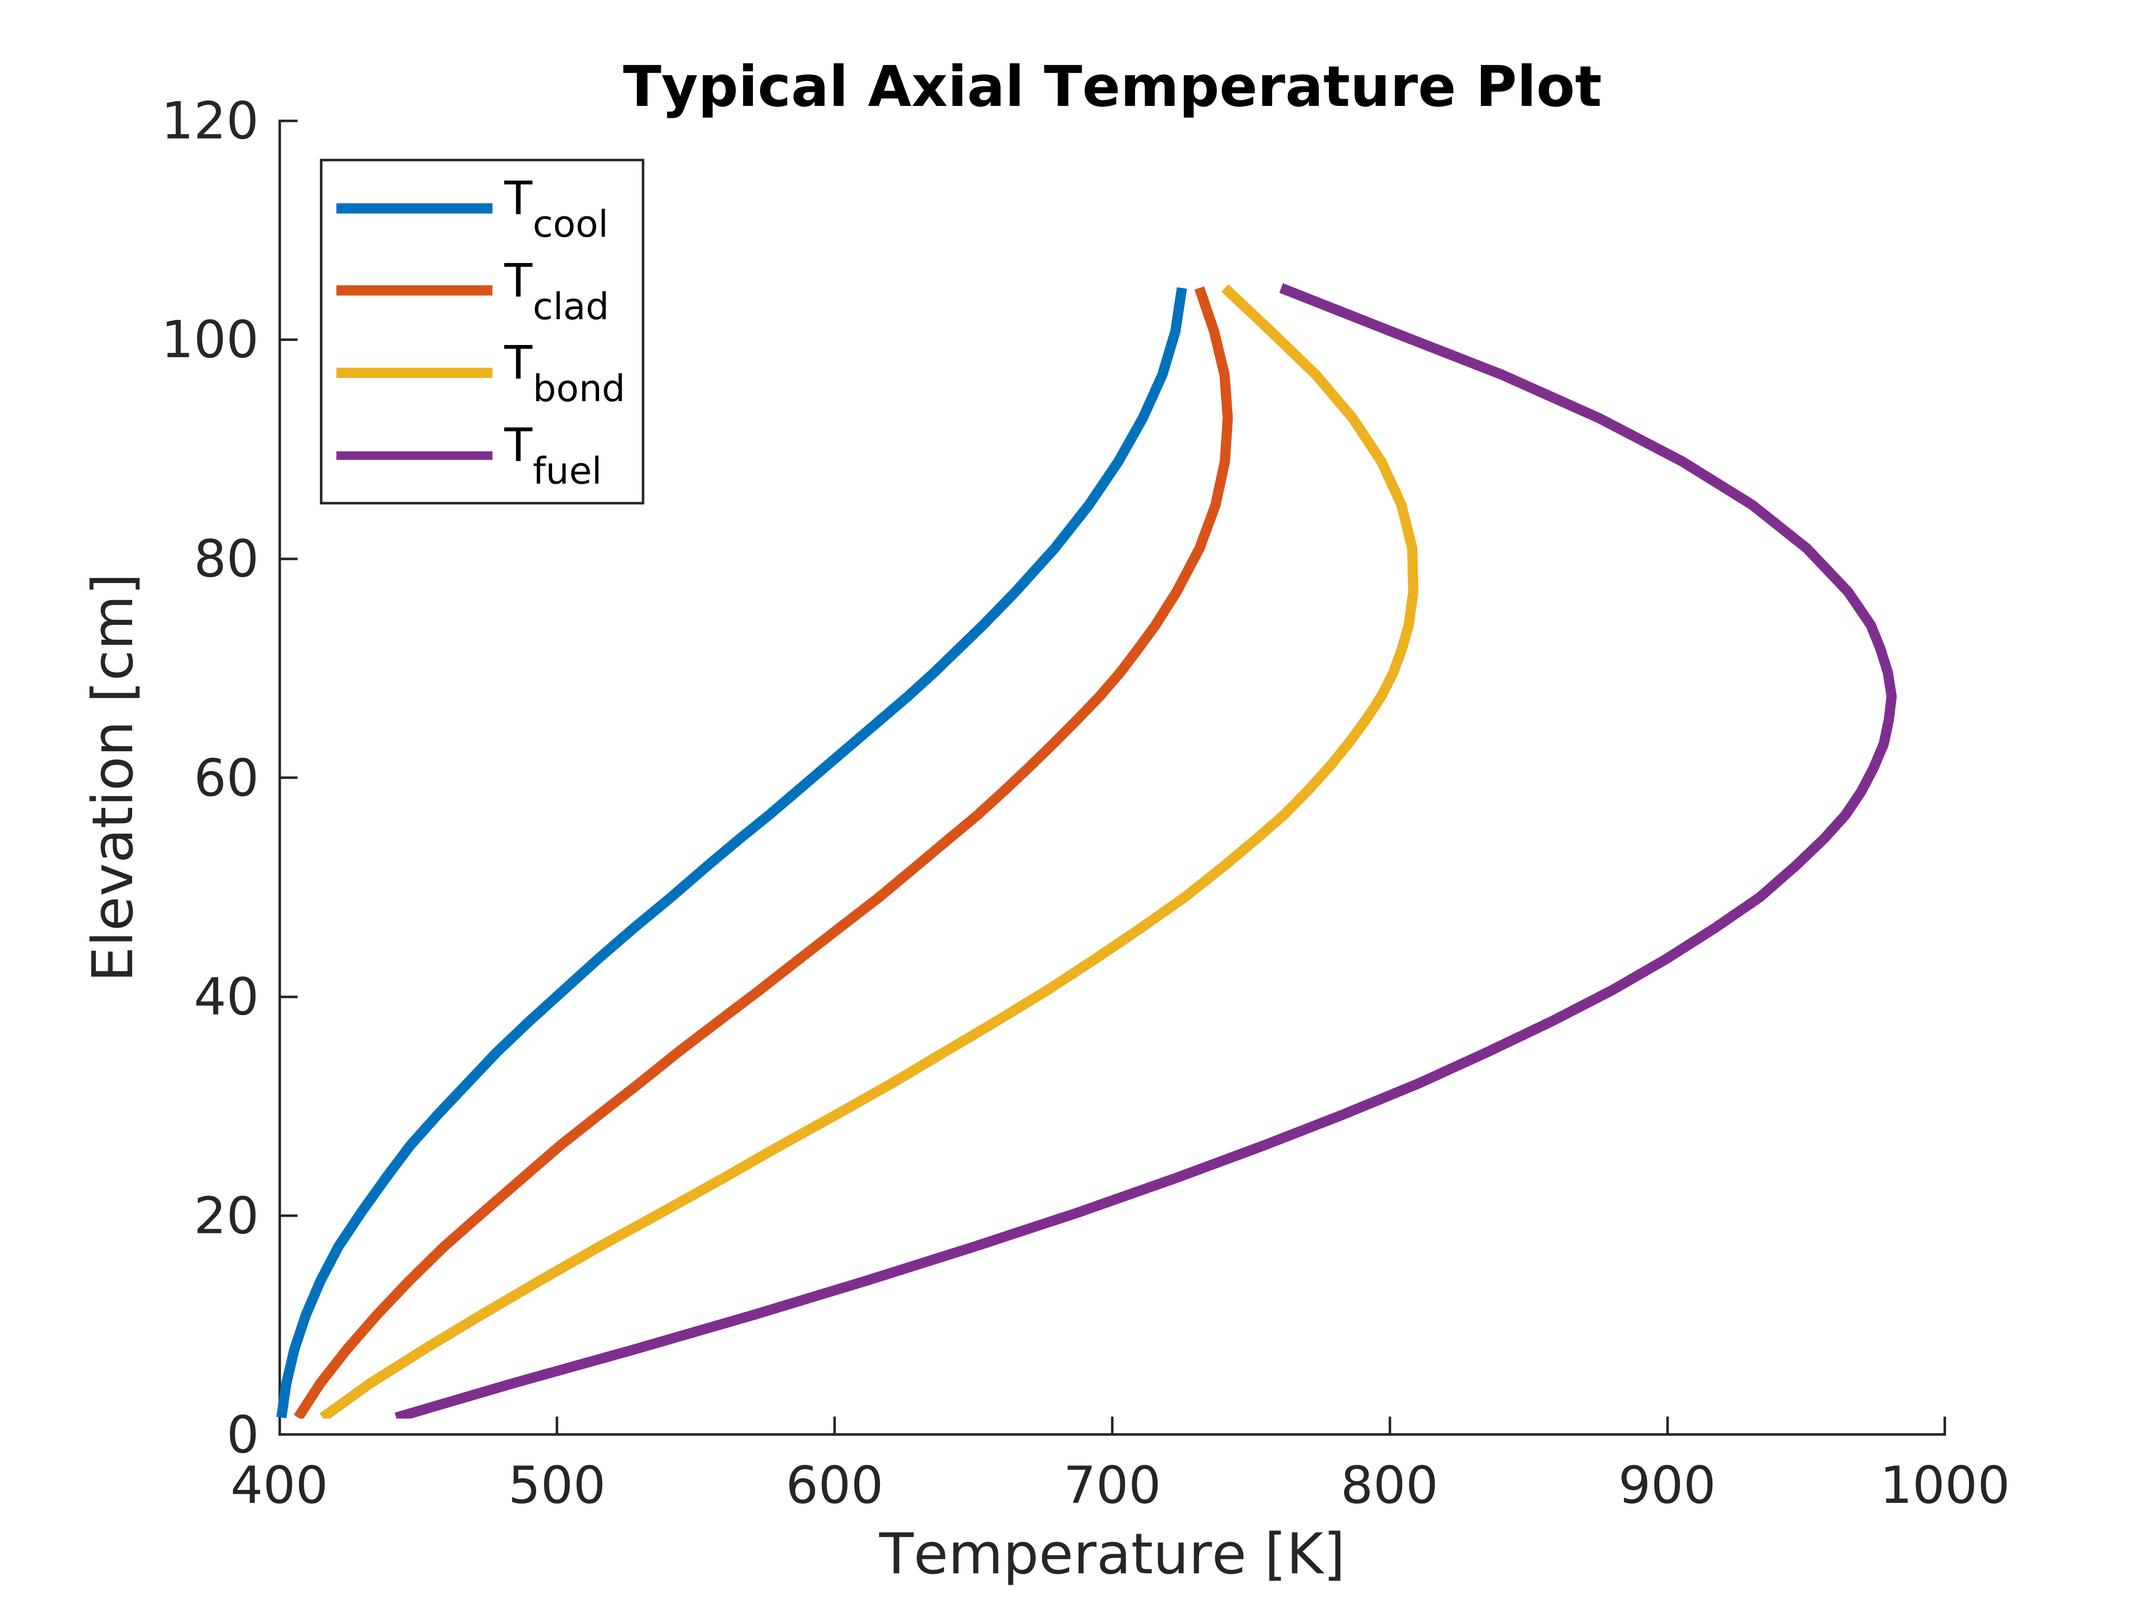
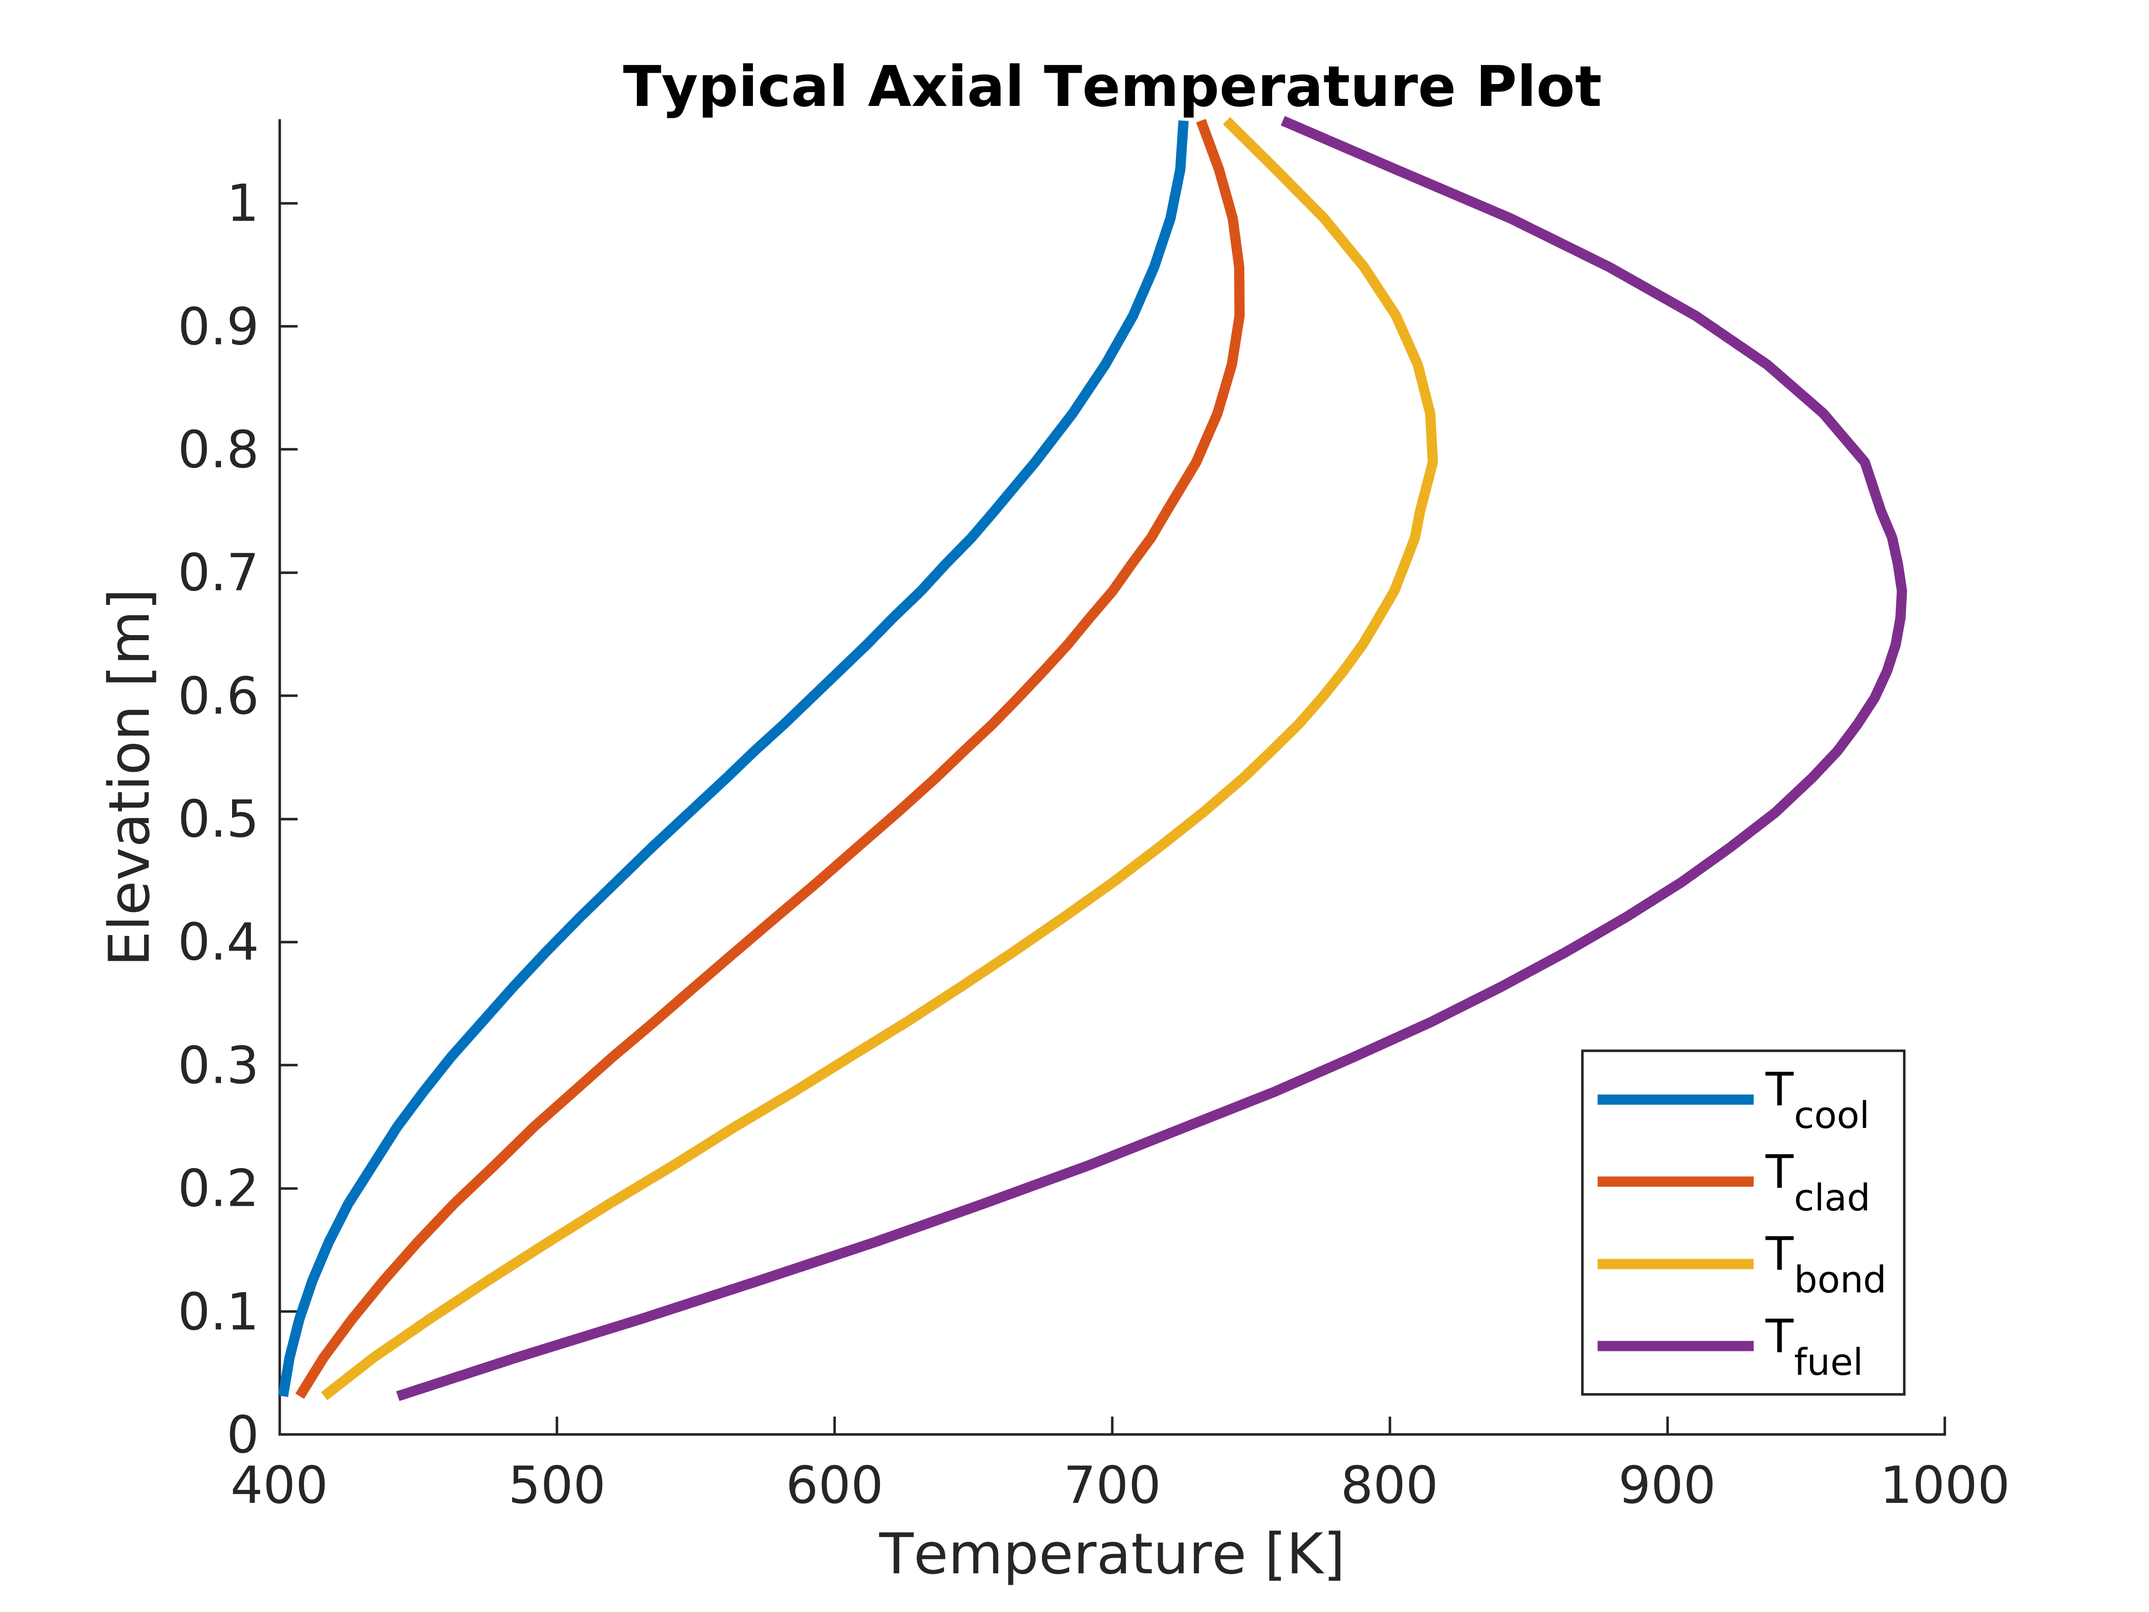
time to type up results for th

diff --git a/ch04_thermalHydraulics/ch04_thermalHydraulics.tex b/ch04_thermalHydraulics/ch04_thermalHydraulics.tex
@@ -579,7 +579,7 @@
       convective heat transfer coefficient $H$ specified according to the
       Weisman Correlation. Newton's Law of Cooling may be written as
       \begin{equation}
-        q''_{clad} = H (T_C - T_{\infty})
+        q''_{clad} = H_c (T_C - T_{\infty})
       \end{equation}
       where $q''_{clad}$ is the heat flux at the clad surface $R_C$, $H$ is
       the convective heat transfer coefficient, $T_C$ is the clad surface
@@ -644,16 +644,16 @@
       is defined as
       \begin{equation}
         \label{eq:hc}
-        H = \frac{Nu \, k}{D_e}
+        H_c = \frac{N\!u \, k}{D_e}
       \end{equation}
       where $Nu$ is the Nusselt number from the Weisman correlation
       \eref{eq:weisman}, $k$ is the fluid thermal conductivity given by a state
       relationship, and $D_e$ is the effective flow diameter given in
       \eref{eq:weisman_de}. Finally, the clad surface temperature is expressed.
       \begin{align}
-        T_C &= \frac{q''_{clad}}{H} + T_{\infty} \\
+        T_C &= \frac{q''_{clad}}{H_c} + T_{\infty} \\
         \label{eq:tc}
-        T_C &= q'''_j \frac{R_F^2}{2\,R_c\,H} + T_{\infty}
+        T_C &= q'''_j \frac{R_F^2}{2\,R_c\,H_c} + T_{\infty}
       \end{align}
       With \eref{eq:tc}, all surface temperatures and the fuel center-line
       temperature have been related to $T_{\infty}$ and the calculation of these
@@ -683,6 +683,7 @@
       $\overline{k_F}$ is first calculated to satisfy
       \eref{eq:tcl_constant_kfuel} such that
       \begin{equation}
+        \label{eq:kfuel_constant}
         \overline{k_F} = \frac{q'''_j \, R_F^2}{4(T_0-T_F)}
       \end{equation}
       where $T_0 = T_F(0)$ is the fuel center-line temperature and
@@ -1009,16 +1010,22 @@
     Radial temperatures for a single-pin model are shown in
     \fref{fig:radial_temp_plot}. This model was generated for 
     ${q'''_j = 6.93 \times 10^9 \units{$\frac{\text{W}}{\text{m}^3}$}}$ and 
-    $\mdot_i = 11.42 \units{$\frac{\text{kg}}{\text{s}}$}$ which are typical 
+    ${\mdot_i = 11.42 \units{$\frac{\text{kg}}{\text{s}}$}}$ which are typical 
     values generated by conducting a full reactor simulation. It is seen
     that the temperature profile within the fuel region is approximately 
     quadratic and temperature profiles in the bond and clad are approximately
     linear. These are the expected behavior for a constant thermal conductivity
-    in each region. Additionally, it is seen that the average temperatures as
-    calculated above reasonably approximate the average temperature within each
-    material. For this case, it was observed that a numeric integration method
-    using 1,000 points to calculate the average temperature and the calculation
-    method described in \sref{sec:average_temps} agreed to within 
+    in each region. The fuel temperature is calculated assuming variable thermal
+    conductivity $k_F(T_F(r))$ and the effective thermal conductivity
+    $\overline{k_F}$ as in \eref{eq:kfuel_constant}. The error due to assuming
+    constant thermal conductivity in the fuel is small and less than $15
+    \units{K}$.
+
+    In \fref{fig:radial_temp_plot}, it is observed that the average temperatures
+    as calculated above reasonably approximate the average temperature within 
+    each material. For this case, it was observed that a numeric integration 
+    method using 1,000 points to calculate the average temperature and the
+    calculation method described in \sref{sec:average_temps} agreed to within 
     $10 \units{K}$.
 
     \begin{figure}
@@ -1029,6 +1036,47 @@
     \end{figure}
 
   \subsection{Axial Results}
+    An exact solution for axial temperatures exists for a given heat generation
+    rate and for constant $k_F$. This exact model is compared to a numerical
+    model as developed in \sref{sec:axial_convection_model}. For this solution,
+    allow
+    \begin{equation}
+      q'(z) = q'_0 \, \sin\left( \frac{\pi \, z}{H}\right)
+    \end{equation}
+    where $q'_0$ is dictated by the power of the reactor $Q_{Rx}$. Assume the
+    properties in \tref{tab:axial_model_properties} where $H$ is the channel
+    height.
+    
+    \begin{table}
+      \caption{System Properties for Axial Model Verification.}
+      \label{tab:axial_model_properties}
+      \begin{center}
+        \begin{tabular}{clc}
+          \toprule
+          Property & Value \\
+          \midrule
+          $q'_0$      & $2.09 \times 10^8$ &
+            $\units{$\frac{\text{W}}{\text{m}}$}$\\
+          $\mdot$     & 11.42  &\units{$\frac{\text{kg}}{\text{s}}$} \\
+          $k_F$       & 36.82  &\units{$\frac{\text{W}}{\text{m K}}$} \\
+          $T_{inlet}$ & 400.   &\units{K} \\
+          $h_{in}$    & 246.62 &\units{$\frac{\text{kJ}}{\text{kg}}$} \\
+          $H$         & 1.2    &\units{m} \\
+          \bottomrule
+        \end{tabular}
+      \end{center}
+    \end{table}
+    
+    Begin with the calculation of $h(x)$ using 
+    \eref{eq:continuous_heat_balance}. Then,
+    \begin{align}
+      h(z) &= h_{in} + \frac{1}{\mdot} 
+        \int_0^z q'_0 \sin\left(\frac{\pi z'}{H}\right)\;dz' \\
+      &= h_{in} + \frac{q'_0}{\mdot} \left(1 - 
+        \cos\left(\frac{\pi \, z}{H}\right)\right)
+    \end{align}
+    and $T_{\infty}(z) = T(h(z))$ given by a sodium state relationship.
+
     Axial temperatures for a single assembly are shown in
     \fref{fig:axial_temp_plot}. This plot was generated by solving the neutron
     diffusion problem for a typical reactor to estimate a heat generation

diff --git a/ch04_thermalHydraulics/figs/matlab/axial_solution_plot.m b/ch04_thermalHydraulics/figs/matlab/axial_solution_plot.m
@@ -1,0 +1,114 @@
+clear
+close all
+
+analtyic_fname = '~/dev/thesis/thermal/axial_analytic_results.csv';
+data = csvread(analtyic_fname,1,0);
+LW = 2;
+
+z    = data(:,1);
+qp   = data(:,2);
+h    = data(:,3);
+
+Tinf = data(:,4);
+TC = data(:,5);
+TB = data(:,6);
+TF = data(:,7);
+T0 = data(:,8);
+
+Tcool = data(:,9);
+Tclad = data(:,10);
+Tbond = data(:,11);
+Tfuel = data(:,12);
+
+tester_fname = '~/dev/thesis/thermal/axial_test_results.csv';
+data = csvread(tester_fname,1,0);
+z_tester = data(:,1);
+h_tester = data(:,2);
+Tfuel_tester = data(:,3);
+Tbond_tester = data(:,4);
+Tclad_tester = data(:,5);
+Tcool_tester = data(:,6);
+T0_tester = data(:,7);
+
+figure
+hold on
+plot(h,z,'LineWidth',LW);
+plot(h_tester,z_tester,'LineWidth',LW);
+hold off
+legend({'Analtyic','Model'},'Location','SouthEast')
+xlabel('h [kJ/kg]')
+ylabel('z [m]')
+ylim([0,z(end)])
+title('Enthalpy')
+print(gcf,'../enthalpy_difference_plot.png','-dpng','-r800');
+
+figure
+hold on
+plot(Tinf,z);
+plot(TC,z);
+plot(TB,z);
+plot(TF,z);
+plot(T0,z);
+hold off
+legend({'T_{\infty}','T_C','T_B','T_F','T_0'},'Location','SouthEast')
+ylim([0,z(end)])
+title('Surface Temperature')
+
+figure
+hold on
+plot(Tcool,z);
+plot(Tclad,z);
+plot(Tbond,z);
+plot(Tfuel,z);
+hold off
+legend({'T_{cool}','T_{clad}','T_{bond}','T_{fuel}'},'Location','SouthEast')
+ylim([0,z(end)])
+title('Analytic Average Temperature')
+
+figure
+hold on
+plot(Tcool_tester,z_tester);
+plot(Tclad_tester,z_tester);
+plot(Tbond_tester,z_tester);
+plot(Tfuel_tester,z_tester);
+hold off
+legend({'T_{cool}','T_{clad}','T_{bond}','T_{fuel}'},'Location','SouthEast')
+ylim([0,z(end)])
+title('Tester Average Temperature')
+
+matlab_blue = [0.00 0.447 0.741];
+matlab_orange = [0.91 0.41 0.17];
+figure
+hold on
+plot(Tcool_tester,z_tester,'Color',matlab_blue);
+plot(Tcool,z,'Color',matlab_orange);
+plot(Tclad_tester,z_tester,'Color',matlab_blue);
+plot(Tbond_tester,z_tester,'Color',matlab_blue);
+plot(Tfuel_tester,z_tester,'Color',matlab_blue);
+plot(Tclad,z,'Color',matlab_orange);
+plot(Tbond,z,'Color',matlab_orange);
+plot(Tfuel,z,'Color',matlab_orange);
+hold off
+legend({'Model Average Temperature','Analytic Average Temperature'},'Location','SouthEast')
+ylim([0,z(end)])
+ylabel('z [m]')
+xlabel('Temperature [K]')
+title('Temperature Comparison')
+
+% project analytic solution onto model grid
+Tcool_project = interp1(z,Tcool,z_tester);
+figure('pos',[1000 1000 850 1000])
+hold on
+yyaxis left
+ylabel('Temperature [K]')
+plot(z,Tcool,'LineWidth',LW);
+plot(z_tester,Tcool_tester,'LineWidth',LW);
+yyaxis right
+plot(z_tester,Tcool_project-Tcool_tester,'LineWidth',LW);
+hold off
+legend({'T_{cool} Analytic','T_{cool} Model','Analytic-Model'},'Location','southoutside')
+title('Temperature Difference')
+xlabel('z [m]')
+xlim([0,z(end)])
+ylabel('Temperature Difference [K]')
+print(gcf,'../axial_difference_plot.png','-dpng','-r800');

diff --git a/ch04_thermalHydraulics/figs/matlab/axial_temp_plot.m b/ch04_thermalHydraulics/figs/matlab/axial_temp_plot.m
@@ -8,12 +8,68 @@ FS = 13; % font size
 descriptor = '-';
 
 data = csvread(fname);
-z = data(:,1);
-enthalpy = data(:,2);
-tcool = data(:,3);
-tclad = data(:,4);
-tbond = data(:,5);
-tfuel = data(:,6);
+z              = data(:,1);
+chunkpwr       = data(:,2);
+chunkqppp_fuel = data(:,3);
+enthalpy       = data(:,4);
+tcool          = data(:,5);
+tclad          = data(:,6);
+tbond          = data(:,7);
+tfuel          = data(:,8);
+
+z = z*1e-2;
+
+qppp0 = max(chunkqppp_fuel);
+H = z(end);
+NPIN = 271;
+mdot = 0.685613E+02; % [kg/s]
+rfuel = 0.27051e-2; % [m]
+afuel = pi * rfuel^2 * NPIN;
+
+figure
+hold on
+plot(chunkqppp_fuel,z,'LineWidth',LW)
+plot(qppp0 * sin(pi*z/H),z)
+hold off
+title("q'''")
+
+enthalpy_test = calcEnthalpy(400.) + 1d-3 * qppp0*afuel/mdot *(H/pi)*(1-cos(pi*z/H));
+% all of the following methods are equivalent
+enthalpy_test(:) = 0;
+for i = 1:length(enthalpy_test)
+    prev = i-1;
+    if (prev < 1)
+        enthalpy_test(i) = calcEnthalpy(400.) + 1d-3 * (1/mdot) * chunkpwr(i);
+    else
+        enthalpy_test(i) = enthalpy_test(prev) + 1d-3 * (1/mdot) * chunkpwr(i);
+    end
+    enthalpy_test(i) = calcEnthalpy(400.) + 1d-3 * (1/mdot) * sum(chunkpwr(1:i));
+    dumbsum = 0;
+    for j = 1:i
+        if (j == 1) 
+            lo = 0;
+        else
+            lo = z(j-1);
+        end
+        dz = z(j) - lo;
+        dumbsum = dumbsum + chunkqppp_fuel(j) * afuel * dz;
+    end
+    enthalpy_test(i) = calcEnthalpy(400.) + 1d-3 * (1/mdot) * dumbsum;
+end
+enthalpy = enthalpy - calcEnthalpy(400.);
+enthalpy_test = enthalpy_test - calcEnthalpy(400.);
+ratio = enthalpy./enthalpy_test;
+
+figure
+hold on
+plot(z,enthalpy,descriptor,'LineWidth',LW)
+plot(z,enthalpy_test,descriptor)
+hold off
+yyaxis right
+plot(z,ratio)
+legend({'enthalpy','enthalpy\_test','ratio'},'Location','NorthWest')
+title('Enthalpy')
+
 
 figure
 hold on
@@ -27,8 +83,9 @@ h = plot(tfuel,z,descriptor,'LineWidth',LW);
 set(h, 'MarkerFaceColor', get(h,'Color'));
 hold off
 legend_labels = {'T_{cool}','T_{clad}','T_{bond}','T_{fuel}'};
-legend(legend_labels,'Location','NorthWest');
-ylabel('Elevation [cm]')
+legend(legend_labels,'Location','SouthEast');
+ylim([0,z(end)])
+ylabel('Elevation [m]')
 xlabel('Temperature [K]')
 title('Typical Axial Temperature Plot')
 print(gcf,'../axial_temp_plot.png','-dpng','-r800');
@@ -46,11 +103,13 @@ end
 clad_factor = tclad./tfuel;
 cool_factor = tcool./tfuel;
 [max_tfuel,idx_tfuel] = max(tfuel);
-figure
-hold on
-plot(tfuel,clad_factor)
-plot(tfuel,cool_factor)
-plot([max_tfuel,max_tfuel],ylim(),'k')
-hold off
+% figure
+% hold on
+% plot(tfuel,clad_factor)
+% plot(tfuel,cool_factor)
+% plot([max_tfuel,max_tfuel],ylim(),'k')
+% hold off
 fprintf('clad_factor = %.6f\n',clad_factor(idx_tfuel));
 fprintf('cool_factor = %.6f\n',cool_factor(idx_tfuel));
+
+figure(2)

diff --git a/ch04_thermalHydraulics/figs/matlab/radial_temp_plot.m b/ch04_thermalHydraulics/figs/matlab/radial_temp_plot.m
@@ -2,6 +2,7 @@ clear
 close all
 
 fname = '~/dev/thesis/thermal/radial.csv';
+fname_const = '~/dev/thesis/thermal/kfuel_radial.csv';
 rfuel = 0.270510;
 rbond = 0.312420;
 rclad = 0.368300;
@@ -11,12 +12,18 @@ Tclad_ave = 0.676579E+03;
 
 LW = 2;
 FS = 13;
+num_dots = 8;
 matlab_blue = [0.00 0.447 0.741];
 matlab_orange = [0.91 0.41 0.17];
 
 data = csvread(fname);
 r = data(:,1);
 T = data(:,2);
+data = csvread(fname_const);
+rconst = data(:,1);
+Tconst = data(:,2);
+rconst = rconst(rconst <= rfuel);
+Tconst = Tconst(1:length(rconst));
 
 myTfuel_ave = 0.;
 myTbond_ave = 0.;
@@ -43,13 +50,17 @@ fprintf('Tfuel_ave = %.2f %.2f %.2f\n',Tfuel_ave,myTfuel_ave,Tfuel_ave-myTfuel_a
 fprintf('Tbond_ave = %.2f %.2f %.2f\n',Tbond_ave,myTbond_ave,Tbond_ave-myTbond_ave);
 fprintf('Tclad_ave = %.2f %.2f %.2f\n',Tclad_ave,myTclad_ave,Tclad_ave-myTclad_ave);
 
+ntest = length(rconst);
+delta_selected = (1/num_dots)*ntest;
+selected = floor(1:delta_selected:ntest);
 figure
 hold on
+plot(rconst,Tconst,'-^','Color','r','LineWidth',1.5,'MarkerIndices',selected,'MarkerFaceColor','r')
 plot(r,T,'Color',matlab_blue,'LineWidth',LW)
 plot([0,rfuel],[Tfuel_ave,Tfuel_ave],'--','Color',matlab_orange,'LineWidth',LW)
 plot([rfuel,rbond],[Tbond_ave,Tbond_ave],'--','Color',matlab_orange,'HandleVisibility','off','LineWidth',LW)
 plot([rbond,rclad],[Tclad_ave,Tclad_ave],'--','Color',matlab_orange,'HandleVisibility','off','LineWidth',LW)
-legend({'Radial Temperature','Average Temperature'},'Location','SouthWest')
+legend({'k_F Constant','Radial Temperature','Average Temperature'},'Location','SouthWest')
 
 yl = ylim();
 plot([rfuel,rfuel],yl,'k','HandleVisibility','off')

diff --git a/WilliamDawn-thesis.tex b/WilliamDawn-thesis.tex
@@ -324,10 +324,10 @@ Method}
 \newcommand{\half}{\frac{1}{2}}
 
 % reference macros
-\newcommand{\eref}[1]{Eq.~\ref{#1}}
+\newcommand{\eref}[1]{Eq.~(\ref{#1})}
 \newcommand{\fref}[1]{Fig.~\ref{#1}}
 \newcommand{\tref}[1]{Table~\ref{#1}}
-\newcommand{\sref}[1]{Sec.~\ref{#1}}
+\newcommand{\sref}[1]{\S~\ref{#1}}
 \newcommand{\chref}[1]{Chapter~\ref{#1}}
 \newcommand{\apref}[1]{Appendix~\ref{#1}}
 \newcommand{\algorithmref}[1]{Algorithm~\ref{#1}}
